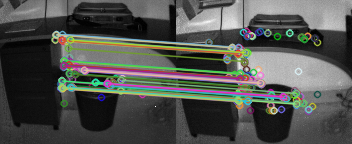
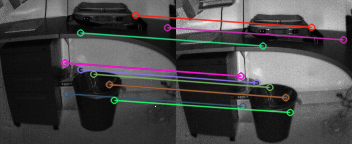
vo final update

Changed region(s): [[0.125, 0.0833, 1.0, 0.8056], [0.1562, 0.6944, 0.2188, 0.75], [0.8438, 0.4722, 0.875, 0.5278]]

diff --git a/src/measureTwo.cpp b/src/measureTwo.cpp
@@ -1,0 +1,283 @@
+/*
+CMSC 591 Slam Project
+First Part, VO 
+Author: Liang Xu
+Data: 04/2019
+Contact: liangxuav@gmail.com
+*/
+
+#include <iostream>
+#include <../include/utility.h>
+#include <opencv2/xfeatures2d/nonfree.hpp>
+#include <opencv2/opencv.hpp>
+#include <vector>
+
+#include <Eigen/Core>
+#include <Eigen/Geometry>
+#include <Eigen/SVD>
+
+using std::cout; 
+using std::endl;
+
+void poseEstimation3D3D
+(const std::vector<cv::Point3d>& pts1, 
+ const std::vector<cv::Point3d>& pts2,
+ std::vector<double> &R, std::vector<double>& t)
+{
+    cv::Point3d p1, p2; 
+    int N = pts1.size(); 
+    for (int i = 0; i < N; ++i)
+    {
+        p1 += pts1[i]; 
+        p2 += pts2[i]; 
+    }
+    p1 = cv::Point3d(cv::Vec3d(p1) / N); 
+    p2 = cv::Point3d(cv::Vec3d(p2) / N); 
+    std::vector<cv::Point3i>     q1 ( N ), q2 ( N ); // remove the center
+    for ( int i=0; i<N; i++ )
+    {
+        q1[i] = pts1[i] - p1;
+        q2[i] = pts2[i] - p2;
+    }
+    // compute q1 * q2 ^ t
+    Eigen::Matrix3d W = Eigen::Matrix3d::Zero();
+    for (int i = 0; i < N; i++)
+    {
+        W += Eigen::Vector3d(q1[i].x, q1[i].y, q1[i].z) * 
+             Eigen::Vector3d(q2[i].x, q2[i].y, q2[i].z).transpose(); 
+    }
+    // SVD on W 
+    Eigen::JacobiSVD<Eigen::Matrix3d> svd(W, Eigen::ComputeFullU|Eigen::ComputeFullV); 
+    Eigen::Matrix3d U = svd.matrixU(); 
+    Eigen::Matrix3d V = svd.matrixV(); 
+
+    if (U.determinant() * V.determinant() < 0)
+	{
+        for (int x = 0; x < 3; ++x)
+        {
+            U(x, 2) *= -1;
+        }
+	}
+    Eigen::Matrix3d R_ = U * (V.transpose()); 
+
+    Eigen::Vector3d t_ = Eigen::Vector3d ( p1.x, p1.y, p1.z ) - 
+                         R_ * Eigen::Vector3d ( p2.x, p2.y, p2.z );
+
+    
+
+    cv::Mat mat_r = (cv::Mat_<double>(3, 3) << R_(0, 0), R_(0, 1), R_(0, 2),
+             R_(1, 0), R_(1, 1), R_(1, 2),
+             R_(2, 0), R_(2, 1), R_(2, 2));
+    cv::Mat rotationVector;
+
+    cv::Rodrigues(mat_r,rotationVector);
+    cout<<"\n Rotation Vector [Ransac SVD]:\n " << rotationVector * (180.0 / 3.14) << endl; 
+    cout <<"\n Translation vector [Ransac SVD]: \n" << t_ << endl; 
+
+
+    // convert to cv::Mat
+    auto rot = Eigen::AngleAxisd(R_).axis();
+    R[0] = rot[0]; 
+    R[1] = rot[1]; 
+    R[2] = rot[2]; 
+    t[0] = t_(0,0); 
+    t[1] = t_(1,0); 
+    t[2] = t_(2,0); 
+    
+
+}
+
+int main( int argc, char** argv )
+{
+    std::cout<<"Hello 591!"<<std::endl;
+    
+    //Read data
+    ParameterReader pd;
+    int display = atoi( pd.getData( "display" ).c_str() );
+    int imgDisplay = atoi( pd.getData( "imageDisplay" ).c_str() );
+    int width  =   atoi( pd.getData( "width" ).c_str() );
+    int height    =   atoi( pd.getData( "height"   ).c_str() );
+    std::string filePath1 = pd.getData("testImage1"); 
+    std::string filePath2 = pd.getData("testImage2"); 
+
+    FRAME f1 = readImage(filePath1, &pd);
+    FRAME f2 = readImage(filePath2, &pd);
+    std::cout << "working on : \n" << filePath1 << "\n" << filePath2 << endl;  
+
+    if (imgDisplay)
+    {
+        cv::imshow("Frame1", f1.rgb); 
+        cv::imshow("Frame2", f2.rgb); 
+        cv::waitKey(0); 
+    }    
+    // Sift feature extraction
+    // sift feature is in the xfeatures2d
+
+    int nfeatures = atoi( pd.getData( "nfeatures" ).c_str() );
+    int nOctaveLayers =  atoi( pd.getData( "nOctaveLayers" ).c_str() );
+    double contrastThreshold = atoi(pd.getData( "contrastThreshold" ).c_str())/100.0; 
+    double edgeThreshold  = atoi(pd.getData( "edgeThreshold" ).c_str()) * 1.0; 
+    double sigma         = atoi(pd.getData( "sigma" ).c_str())/10.0; 
+
+    float scaleFactor = atoi(pd.getData( "scaleFactor" ).c_str())/100.0; 
+    if (display)
+    {
+        cout << "Image height " << height << " width is " << width << endl; 
+        cout << "nFeature: " << nfeatures << endl << "nOctaveLayers : " << nOctaveLayers << endl;
+        cout << "scaleFactor: " << scaleFactor << endl; 
+        cout << "nOctaveLayers: " << nOctaveLayers << endl; 
+    }
+    cv::Ptr<cv::Feature2D> detector = 
+            cv::xfeatures2d::SIFT::create(0,nOctaveLayers, 0.002);
+
+    int scaleOfGoodMatch = atoi( pd.getData( "scaleOfGoodMatch" ).c_str() );
+
+    cv::Ptr<cv::DescriptorMatcher> matcher = cv::makePtr<cv::FlannBasedMatcher>();
+    
+    detector->detectAndCompute(f1.rgb, cv::Mat(), f1.kp, f1.desp);
+
+    detector->detectAndCompute(f2.rgb, cv::Mat(), f2.kp, f2.desp); 
+
+    // find matches
+    std::vector<cv::DMatch> matches; 
+    
+    matcher->match(f1.desp, f2.desp, matches); 
+
+    double max_dist = 0; double min_dist = 100;
+    for( int i = 0; i < f1.desp.rows; i++ )
+    { double dist = matches[i].distance;
+      if( dist < min_dist ) min_dist = dist;
+      if( dist > max_dist ) max_dist = dist;
+    }
+    cout << "found " << matches.size() << endl; 
+    std::vector< cv::DMatch > goodMatches;
+    for( int i = 0; i < f1.desp.rows; i++ )
+    { if( matches[i].distance <= std::max(scaleOfGoodMatch*min_dist, 0.02) )
+      { goodMatches.push_back( matches[i]); }
+    }
+    
+    // display good matches
+    if (display)
+    {
+        cout<<"Find total "<<matches.size()<<" matches."<<endl;
+        cout<<"good matches="<<goodMatches.size()<<endl;
+        
+    }
+    if (imgDisplay)
+    {
+        cv::Mat imgMatches;
+        cv::drawMatches( f1.rgb, f1.kp, f2.rgb, f2.kp, goodMatches, imgMatches );
+        cv::imwrite( "good_matches.png", imgMatches );
+        cv::imshow( "good matches", imgMatches );
+        cv::waitKey(0); 
+    }
+
+
+    // 3D poitns
+    std::vector<cv::Point3d> src ; 
+    std::vector<cv::Point3d> dst; 
+    // 2D location
+    std::vector<cv::Point2d> imagCor; 
+
+    for (size_t i = 0; i<goodMatches.size(); ++i)
+        {
+            cv::Point2d p1 = f1.kp[goodMatches[i].queryIdx].pt;
+            cv::Point2d p2 = f2.kp[goodMatches[i].trainIdx].pt;
+            cv::Point3d point1; 
+            cv::Point3d point2;
+            point1.x = f1.depth_x.at<double>(int(p1.y), int(p1.x)); 
+            point1.y = f1.depth_y.at<double>(int(p1.y), int(p1.x)); 
+            point1.z = f1.depth_z.at<double>(int(p1.y), int(p1.x));
+            point2.x = f2.depth_x.at<double>(int(p2.y), int(p2.x)); 
+            point2.y = f2.depth_y.at<double>(int(p2.y), int(p2.x)); 
+            point2.z = f2.depth_z.at<double>(int(p2.y), int(p2.x));
+            src.push_back(point1); 
+            dst.push_back(point2);
+        }
+    
+    cv::Mat rvec, translationVec, inliers, ratationVector;
+    cv::Mat affine = cv::Mat::zeros(3,4,CV_64F);
+    if (display)
+    {
+        cout<<"src.size "<<src.size()<<endl;
+        cout<<"dst.size "<<dst.size()<<endl;
+    }
+    
+    int half = src.size() * 0.6;
+    double threshold = 2.0; 
+    int count = 0; 
+    //cv::estimateAffine3D(src, dst,affine,inliers, 5.0 ,0.99999);
+    
+    while (count < half)
+    {
+        threshold += 0.1;
+        cv::estimateAffine3D(src, dst,affine,inliers, threshold ,0.98);
+        count = 0; 
+        for (int i = 0; i < src.size(); ++i)
+        {
+            if(inliers.at<bool>(0,i) == true)
+            {
+                ++count; 
+            }
+        }
+    }
+    
+    std::cout << "Inliners : " << count << " Total : " << src.size() << std::endl;
+    std::cout << "thres hold " << threshold << std::endl;  
+
+    //std::cout << inliers << std::endl; 
+    //std::cout << src.size() << std::endl; 
+
+    int writeImg = atoi( pd.getData( "writeImg" ).c_str() );
+    std::vector<cv::Point3d> srcSVD; 
+    std::vector<cv::Point3d> dstSVD; 
+    for (int i = 0; i < src.size(); ++i)
+        {
+            if(inliers.at<bool>(0,i) == true)
+            {
+                srcSVD.push_back(src[i]); 
+                dstSVD.push_back(dst[i]); 
+            }
+        }
+
+    if (writeImg)
+    {
+        cv::Mat imgMatches;
+        std::vector<cv::DMatch> goodMatches2;
+        for (int i = 0; i < src.size(); ++i)
+        {
+            //std::cout << inliers.at<bool>(0,i) << std::endl; 
+            if(inliers.at<bool>(0,i) == true)
+            {
+                goodMatches2.push_back(goodMatches[i]); 
+            }
+        }
+        //cv::drawMatches( f1.rgb, f1.kp, f2.rgb, f2.kp, goodMatches2, imgMatches );
+        cv::drawMatches( f1.rgb, f1.kp, f2.rgb, f2.kp, goodMatches2, 
+                imgMatches,cv::Scalar_<double>::all(-1), 
+                cv::Scalar_<double>::all(-1), std::vector<char>(), 
+                cv::DrawMatchesFlags::NOT_DRAW_SINGLE_POINTS);
+        cv::imwrite( "good_matches.png", imgMatches );
+        cv::imshow( "good matches", imgMatches );
+        cv::waitKey(0); 
+    }
+    //std::cout<<"\naffine transforation is : \n"<<affine<<endl;
+    
+    cv::Mat ratationMatrix = affine(cv::Rect(0,0,3,3));
+    cv::Rodrigues(ratationMatrix,ratationVector);
+
+
+
+    translationVec = affine(cv::Rect(3,0,1,3));
+    ratationVector = ratationVector * (180.0 / 3.14); 
+    std::cout<<"\nRotation Vector [From API]:\n "<<ratationVector<<endl;
+    std::cout<<"\ntranslation : \n"<<translationVec<<endl;
+
+    std::vector<double> t(3); 
+    std::vector<double> Rot(3); 
+
+    poseEstimation3D3D(srcSVD, dstSVD, Rot, t); 
+    
+    return 0; 
+
+}

diff --git a/src/vo.cpp b/src/vo.cpp
@@ -262,10 +262,10 @@ int main( int argc, char** argv )
             int half = src.size() * 0.6;
             double threshold = 10.0; 
             int count = 0; 
-            while (count < half && threshold < 200.0)
+            while (count < half && threshold < 100.0)
             {
                 threshold += 0.5;
-                cv::estimateAffine3D(src, dst,affine,inliers, threshold ,0.98);
+                cv::estimateAffine3D(src, dst,affine,inliers, threshold ,0.99);
                 count = 0; 
                 for (int i = 0; i < src.size(); ++i)
                 {
@@ -288,7 +288,7 @@ int main( int argc, char** argv )
                 }
             }
 
-            if (srcSVD.size() > 5)
+            if (srcSVD.size() > 5 && threshold < 30.0)
             {
                 //cout << "empty " << endl; 
                 poseEstimation3D3D(srcSVD, dstSVD, Rot, t);
